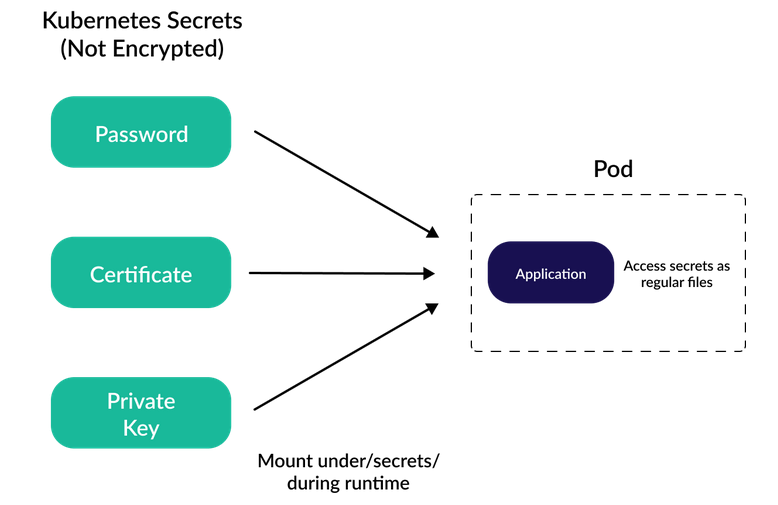
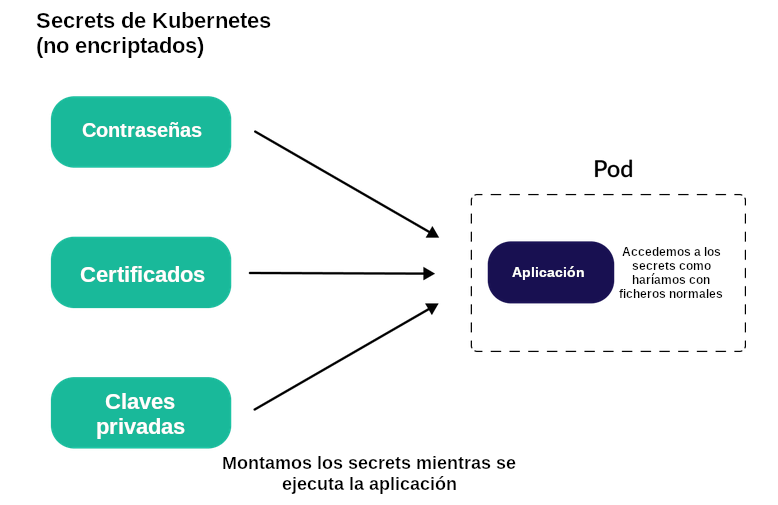
cambios

diff --git a/README.md b/README.md
@@ -976,7 +976,13 @@ Si empezamos un nuevo proyecto desde cero, existen varias maneras de almacenar d
 
 #### Cómo funcionan los secrets en Kubernetes
 
+Existen dos tipos de *secrets*: los recursos que creamos en Kubernetes y los "sellados" (*sealed secrets*) introducidos por Bitnami. Los primeros no se encriptan de ninguna manera, y el hecho de codificarlos con base64 no debería contar como una medida de seguridad. Aunque hay formas de encriptar estos *secrets* dentro del cluster, lo que nos interesa es hacerlo fuera, para poder almacenarlos en Git y seguir los principios de GitOps.
 
+El uso de *secrets* en aplicaciones de Kubernetes es muy sencillo. Al igual que con los *ConfigMaps*, podemos montarlos como ficheros en nuestra aplicación o pasarlos como variables de entorno.
+
+<p align="center">
+<img src="images/kubesecrets.png" alt="Funcionamiento de los secrets normales" width="600"/>
+</p>
 
 <br>
 
